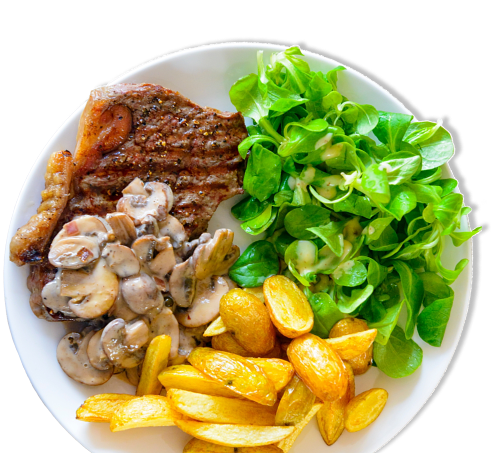
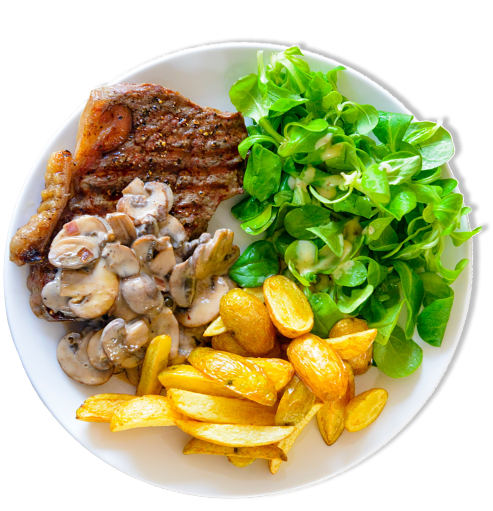
responsiveness

diff --git a/src/app/pages/start/start.html b/src/app/pages/start/start.html
@@ -1,25 +1,27 @@
 <section class="start">
-  <div class="start__content">
-    <div class="start__hero">
-      <img class="start__logo" src="img/Logo_white.png" alt="Code à Cuisine" />
-      <p class="start__eyebrow">AI-Powered recipe generator</p>
-      <h1 class="start__title">Code à Cuisine</h1>
-      <button type="button" class="start__cta" routerLink="/generate-recipe">Get started</button>
+  <div class="start__inner">
+    <div class="start__content">
+      <div class="start__hero">
+        <img class="start__logo" src="img/Logo_white.png" alt="Code à Cuisine" />
+        <p class="start__eyebrow">AI-Powered recipe generator</p>
+        <h1 class="start__title">Code à Cuisine</h1>
+        <button type="button" class="start__cta" routerLink="/generate-recipe">Get started</button>
+      </div>
+
+      <div class="start__cookbook-wrap">
+        <a class="start__cookbook" routerLink="/history">
+          <span class="start__cookbook-label">Hungry for inspiration?</span>
+          <span class="start__cookbook-link">Go to cookbook <span class="start__arrow">&rarr;</span></span>
+        </a>
+      </div>
     </div>
 
-    <div class="start__cookbook-wrap">
-      <a class="start__cookbook" routerLink="/history">
-        <span class="start__cookbook-label">Hungry for inspiration?</span>
-        <span class="start__cookbook-link">Go to cookbook <span class="start__arrow">&rarr;</span></span>
-      </a>
+    <div class="start__images">
+      <img class="start__image start__image--optional-1" src="img/Start_picture_optional_1.png" alt="" />
+      <img class="start__image start__image--1" src="img/Start_picture_1.png" alt="" />
+      <img class="start__image start__image--2" src="img/Start_picture_2.png" alt="" />
+      <img class="start__image start__image--3" src="img/Start_picture_3.png" alt="" />
+      <img class="start__image start__image--optional-2" src="img/Start_picture_optional_2.png" alt="" />
     </div>
-  </div>
-
-  <div class="start__images">
-    <img class="start__image start__image--optional-1" src="img/Start_picture_optional_1.png" alt="" />
-    <img class="start__image start__image--1" src="img/Start_picture_1.png" alt="" />
-    <img class="start__image start__image--2" src="img/Start_picture_2.png" alt="" />
-    <img class="start__image start__image--3" src="img/Start_picture_3.png" alt="" />
-    <img class="start__image start__image--optional-2" src="img/Start_picture_optional_2.png" alt="" />
   </div>
 </section>

diff --git a/src/app/pages/start/start.scss b/src/app/pages/start/start.scss
@@ -1,11 +1,18 @@
 .start {
   display: flex;
+  justify-content: center;
   min-height: 100vh;
   background: #3a6039;
   color: #f5efe0;
   overflow: hidden;
   font-family: "Ubuntu", -apple-system, BlinkMacSystemFont, "Segoe UI", Roboto, Helvetica,
     Arial, sans-serif;
+}
+
+.start__inner {
+  display: flex;
+  width: 100%;
+  max-width: 1440px;
 }
 
 .start__content {
@@ -116,11 +123,31 @@
   display: none;
 }
 
-@media (min-width: 1700px) {
+@media (min-width: 1500px) {
   .start__image--optional-1,
   .start__image--optional-2 {
     display: block;
   }
+
+  .start__image {
+  position: absolute;
+  left: 50%;
+  width: 70%;
+  max-width: 460px;
+  height: auto;
+  transform: translateX(-50%, -50%);
+}
+
+.start__image--1 {
+  top: 0;
+  
+}
+
+.start__image--2 {
+  top: 50%;
+  z-index: 2;
+  transform: translate(-50%, -40%);
+}
 
   .start__image--optional-1 {
     top: 25%;
@@ -135,14 +162,14 @@
     bottom: 0;
     width: 80%;
     max-width: 475px;
-    transform: translateX(-50%);
+    transform: translate(-50%, 30%);
     z-index: 4;
   }
 
   .start__image--3 {
     top: 75%;
     bottom: auto;
-    transform: translate(-50%, -50%);
+    transform: translate(-50%, -60%);
   }
 }
 
@@ -180,7 +207,7 @@
   }
 }
 
-@media (max-width: 1000px) {
+@media (max-width: 1100px) {
   .start__content {
     flex: 1 1 58%;
     padding: 2.5rem 1.25rem 2.5rem 1.5rem;

diff --git a/src/app/pages/preferences/preferences.html b/src/app/pages/preferences/preferences.html
@@ -103,11 +103,7 @@
 
     <div class="prefs__group">
       <h2 class="prefs__group-title">
-        <svg viewBox="0 0 24 24" fill="none" stroke="currentColor" stroke-width="2" stroke-linecap="round" stroke-linejoin="round">
-          <circle cx="12" cy="12" r="9" />
-          <line x1="3" y1="12" x2="21" y2="12" />
-          <path d="M12 3c3 3.5 3 14.5 0 18M12 3c-3 3.5-3 14.5 0 18" />
-        </svg>
+        <img class="prefs__group-icon" src="img/World_icon.png" alt="" />
         Cuisine
       </h2>
       <div class="prefs__chips">
@@ -126,12 +122,7 @@
 
     <div class="prefs__group">
       <h2 class="prefs__group-title">
-        <svg viewBox="0 0 24 24" fill="none" stroke="currentColor" stroke-width="2" stroke-linecap="round" stroke-linejoin="round">
-          <path d="M7 2v8a2 2 0 0 0 4 0V2" />
-          <line x1="9" y1="10" x2="9" y2="22" />
-          <path d="M17 2v7a2 2 0 0 1-4 0V2" />
-          <line x1="17" y1="2" x2="17" y2="22" />
-        </svg>
+        <img class="prefs__group-icon" src="img/fork_spoon_icon.png" alt="" />
         Diet preferences
       </h2>
       <div class="prefs__chips">

diff --git a/src/app/pages/recipes/recipes.html b/src/app/pages/recipes/recipes.html
@@ -44,11 +44,7 @@
       @for (recipe of recipes(); track $index) {
         <a class="recipes__card" [routerLink]="['/recipes', $index]">
           <span class="recipes__card-label">
-            <svg viewBox="0 0 24 24" fill="none" stroke="currentColor" stroke-width="2" stroke-linecap="round" stroke-linejoin="round">
-              <path d="M3 18h18" />
-              <path d="M4 18a8 8 0 0 1 16 0" />
-              <line x1="12" y1="6" x2="12" y2="3.5" />
-            </svg>
+            <img class="recipes__card-icon" src="img/recipePage/recipe-icon.png" alt="" />
             Recipe {{ $index + 1 }}
           </span>
 

diff --git a/src/app/pages/preferences/preferences.scss b/src/app/pages/preferences/preferences.scss
@@ -135,6 +135,12 @@
   height: 20px;
 }
 
+.prefs__group-icon {
+  width: 20px;
+  height: 20px;
+  object-fit: contain;
+}
+
 .prefs__chips {
   display: flex;
   flex-wrap: wrap;
@@ -209,3 +215,27 @@
     gap: 1.5rem;
   }
 }
+
+@media (max-width: 500px) {
+  .prefs__counters {
+  justify-content: flex-start;
+  }
+
+  .prefs__chip {
+  justify-content: flex-start;
+  padding: 0.3rem 0.4rem;
+
+  } 
+
+    .prefs__panel {
+  padding: 0.6rem;
+  
+  } 
+
+    .prefs__chip-hint {
+  font-size: 0.7rem;
+  } 
+
+
+  }
+

diff --git a/src/app/pages/recipes/recipes.scss b/src/app/pages/recipes/recipes.scss
@@ -191,9 +191,10 @@
   font-weight: 600;
 }
 
-.recipes__card-label svg {
+.recipes__card-icon {
   width: 18px;
   height: 18px;
+  object-fit: contain;
 }
 
 .recipes__card-title {
